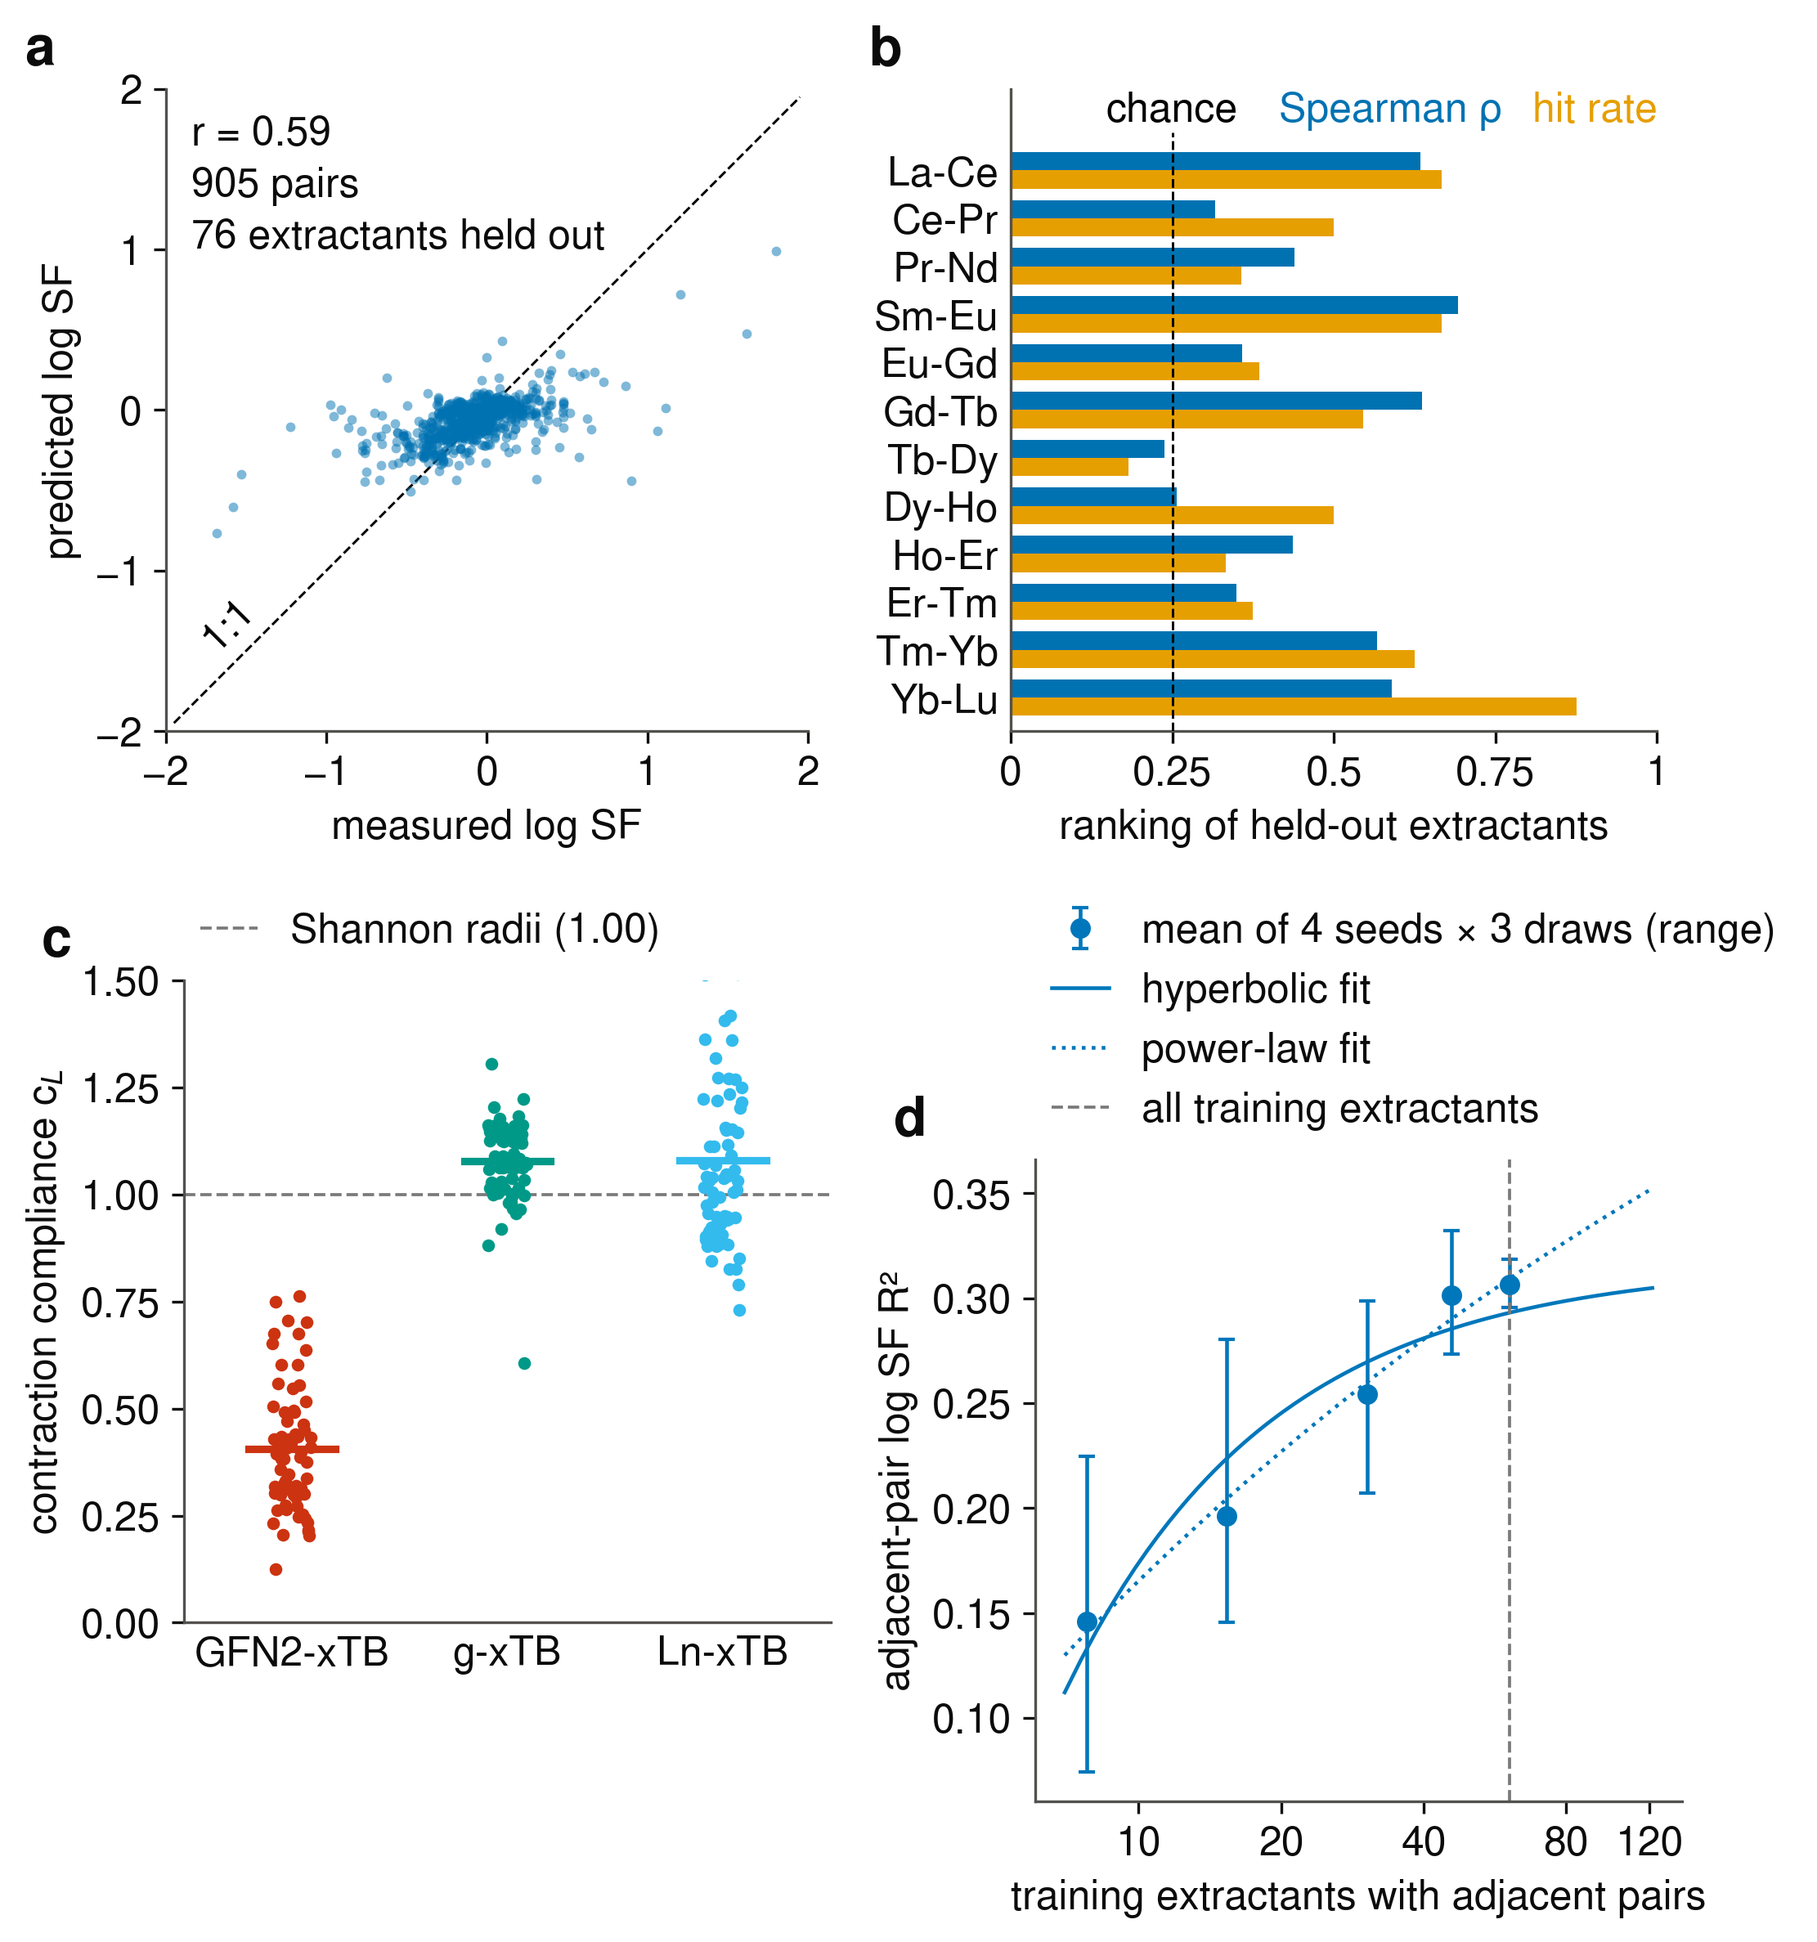
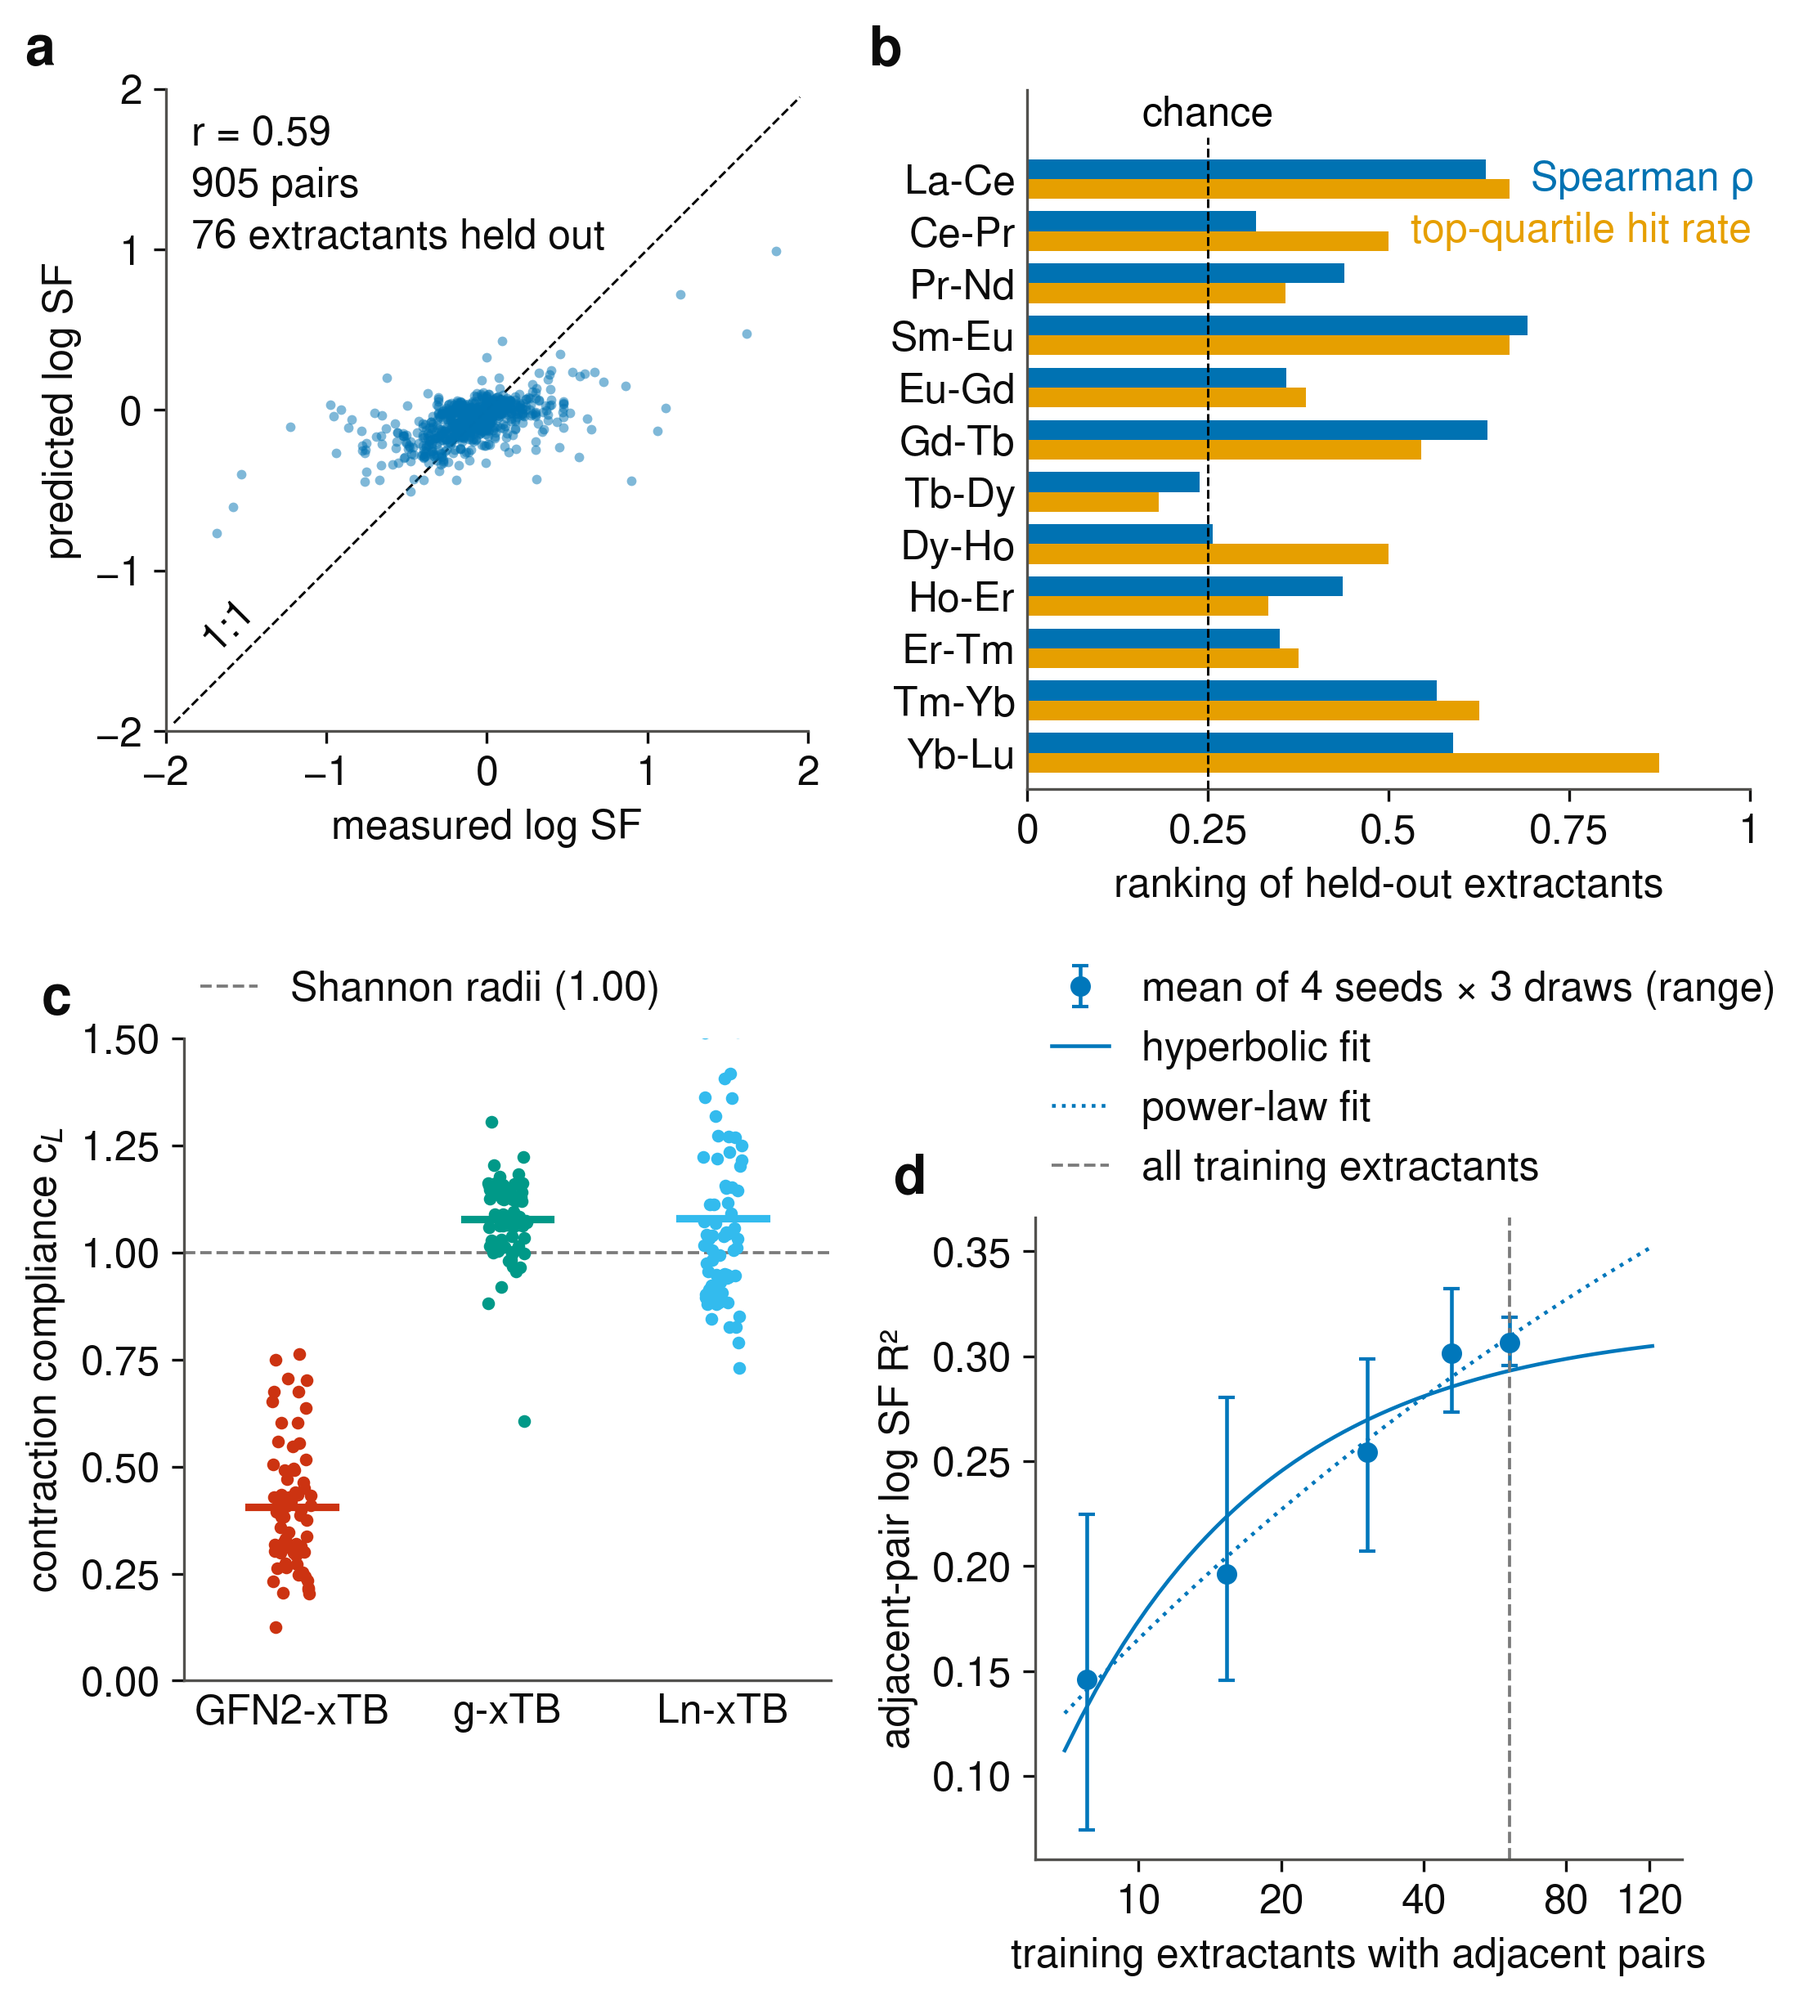
MoML figure, ranking panel: Spearman beside the La-Ce pair, full top-quartile hit rate beside the Ce-Pr pair, panel widened so both fit inside the axes

diff --git a/docs/moml_2026/make_figures.py b/docs/moml_2026/make_figures.py
@@ -70,20 +70,21 @@ def fig1b(ch=None):
     rho = np.array([R[p]["spearman"] for p in pos])
     hit = np.array([R[p]["top_quartile_hit_rate"] for p in pos])
     chance = D["ranking"]["chance_hit_rate"]
-    fig, ax = fs.figure(3.4, 3.4)
+    fig, ax = fs.figure(3.8, 3.7)      # wider so the full name fits inside the axes
     y = np.arange(len(pos)); h = 0.38
     ax.barh(y + h / 2, rho, height=h, color=fs.COLOR["model"])
     ax.barh(y - h / 2, hit, height=h, color=fs.COLOR["hit"])
     ax.vlines(chance, -0.7, len(pos) - 1 + 0.8, ls="--", lw=0.7, color=fs.OI["black"], zorder=3)
     # names written beside the shortest row's bars, where the axes are empty
     top = len(pos) - 1
-    # one line in the band above the bars: chance at its line, then the two
-    # series names in their own colours, right-aligned; nothing touches a bar
+    # names beside the first two rows: "Spearman ρ" centred on the La-Ce row
+    # after its longer bar, the full hit-rate name centred on the Ce-Pr row;
+    # chance at the top of its line
     top = len(pos) - 1
-    yb = top + 0.85
-    ax.text(chance, yb, "chance", ha="center", va="bottom", color=fs.OI["black"])
-    ax.text(0.76, yb, "Spearman ρ", ha="right", va="bottom", color=fs.COLOR["model"])
-    ax.text(1.00, yb, "hit rate", ha="right", va="bottom", color=fs.COLOR["hit"])
+    k1, k2 = pos.index("La-Ce"), pos.index("Ce-Pr")
+    ax.text(max(rho[k1], hit[k1]) + 0.03, k1, "Spearman ρ", va="center", ha="left", color=fs.COLOR["model"])
+    ax.text(max(rho[k2], hit[k2]) + 0.03, k2, "top-quartile hit rate", va="center", ha="left", color=fs.COLOR["hit"])
+    ax.text(chance, top + 0.85, "chance", ha="center", va="bottom", color=fs.OI["black"])
     ax.set_yticks(y); ax.set_yticklabels(pos)
     ax.set_ylim(-0.7, top + 1.7)
     ax.set_xlim(0, 1.0); ax.set_xticks([0, 0.25, 0.5, 0.75, 1.0])
